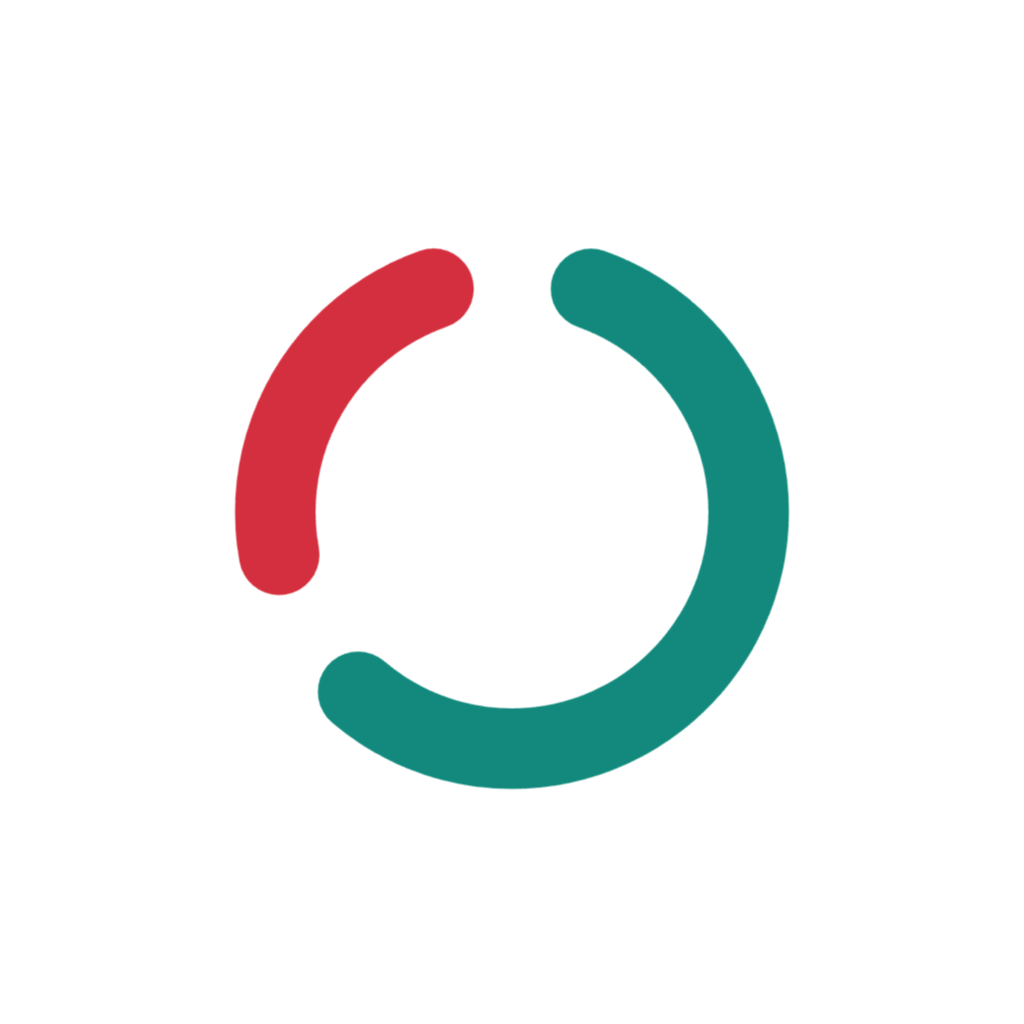
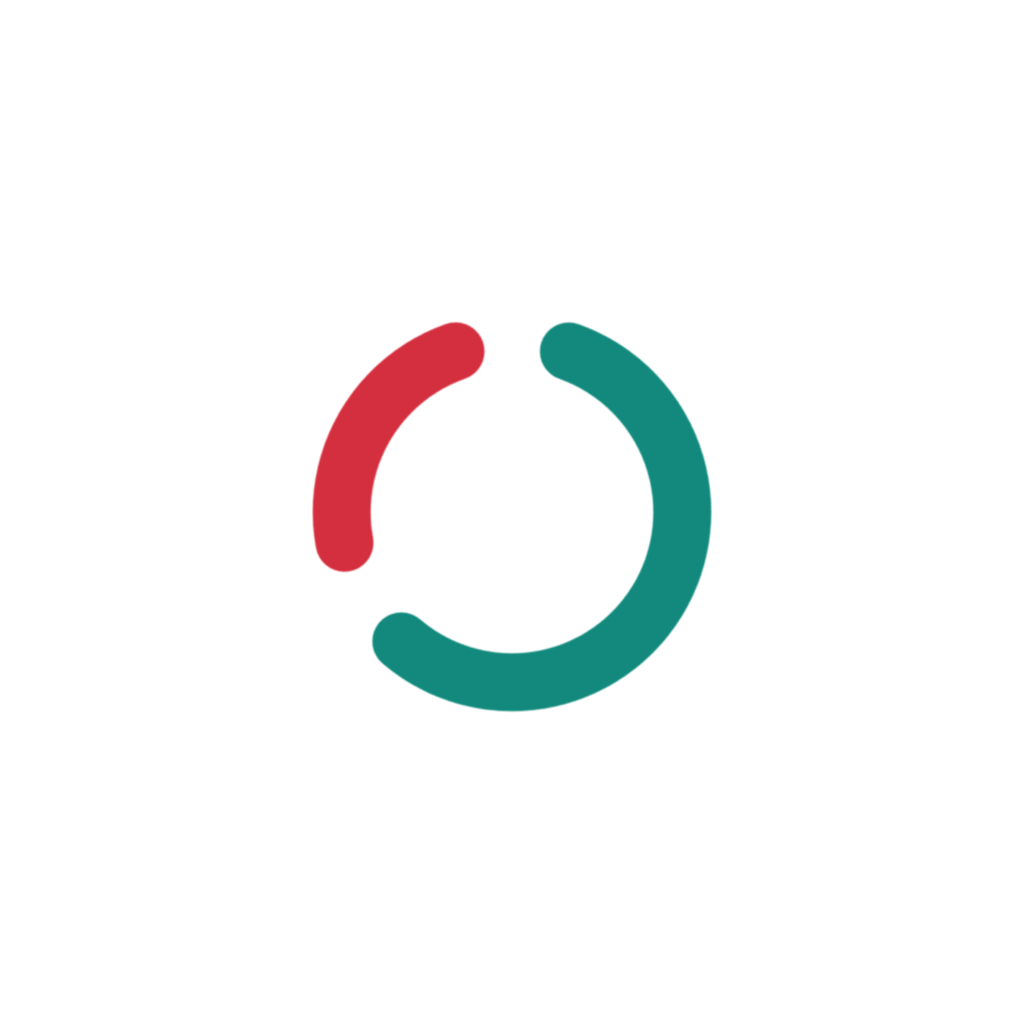
fix(android): 안드로이드에서 시트·팝업·글꼴·아이콘·스플래시가 깨지던 것을 바로잡고 공유 카드에 이전 버튼

Changed region(s): [[0.3125, 0.2188, 0.7812, 0.7812], [0.2188, 0.2188, 0.4688, 0.5938]]

diff --git a/src/components/WorkoutCard.tsx b/src/components/WorkoutCard.tsx
@@ -10,7 +10,7 @@
  * 위 84pt는 인스타 프로필·닫기 버튼, 아래 60pt는 하단 바 자리라 비워 둔다(시안 개정).
  */
 import React from 'react';
-import { StyleSheet, Text, View, type StyleProp, type ViewStyle } from 'react-native';
+import { Platform, StyleSheet, Text, View, type StyleProp, type ViewStyle } from 'react-native';
 import Svg, { Circle, Defs, G, RadialGradient, Rect, Stop } from 'react-native-svg';
 import { clock } from '../engine/labels';
 import { t } from '../i18n';
@@ -30,9 +30,18 @@ export const CARD = {
   panelBorder: 'rgba(255,255,255,0.08)',
 };
 
-/** 숫자 글꼴 — app.json의 expo-font가 묶어 넣는다(iOS는 PostScript 이름으로 찾는다) */
-export const NUM_BOLD = 'LeagueSpartan-Bold';
-export const NUM_SEMI = 'LeagueSpartan-SemiBold';
+/**
+ * 숫자 글꼴 — app.json의 expo-font가 묶어 넣는다. **이름이 플랫폼마다 다르다** — iOS는 PostScript 이름
+ * (LeagueSpartan-Bold)으로, 안드로이드는 파일 이름(LeagueSpartan_700Bold)으로 찾는다. iOS 이름만 쓰자
+ * 안드로이드에서 시스템 글꼴로 그려졌다(갤럭시 실기기, 2026-11-05).
+ *
+ * 이 글꼴을 쓰는 스타일에는 `includeFontPadding: false`를 함께 둔다 — 안드로이드는 글자 위아래에 폰트의
+ * 여백을 더 붙여, 링 가운데에 둔 숫자가 아래로 처졌다(갤럭시 실기기). iOS에는 없는 속성이라 영향이 없다.
+ */
+const spartan = (ios: string, file: string) => (Platform.OS === 'ios' ? ios : file);
+export const NUM_SEMI = spartan('LeagueSpartan-SemiBold', 'LeagueSpartan_600SemiBold');
+export const NUM_BOLD = spartan('LeagueSpartan-Bold', 'LeagueSpartan_700Bold');
+export const NUM_EXTRA = spartan('LeagueSpartan-ExtraBold', 'LeagueSpartan_800ExtraBold');
 
 /** 이미지에 넣는 종목 줄 수 — 넘으면 「외 N개 종목」 */
 export const SHARE_MAX_ROWS = 7;
@@ -346,9 +355,9 @@ export function Legend({ color, label, value, small }: { color: string; label?: 
 
 const styles = StyleSheet.create({
   center: { alignItems: 'center', justifyContent: 'center' },
-  ringLabel: { fontFamily: NUM_BOLD, color: CARD.text, letterSpacing: -1, paddingTop: 3 },
+  ringLabel: { fontFamily: NUM_BOLD, includeFontPadding: false, color: CARD.text, letterSpacing: -1, paddingTop: 3 },
   logo: { flexDirection: 'row', alignItems: 'center', gap: 7 },
-  logoText: { fontFamily: NUM_SEMI, color: CARD.text, letterSpacing: -0.9, paddingTop: 3 },
+  logoText: { fontFamily: NUM_SEMI, includeFontPadding: false, color: CARD.text, letterSpacing: -0.9, paddingTop: 3 },
 
   hero: { flexDirection: 'row', alignItems: 'center' },
   heroText: { flex: 1, minWidth: 0, gap: 8 },
@@ -358,7 +367,7 @@ const styles = StyleSheet.create({
   legendItem: { flexDirection: 'row', alignItems: 'center', gap: 5 },
   dot: { width: 7, height: 7, borderRadius: 3.5 },
   legendLabel: { fontSize: 11.5, color: CARD.legend },
-  legendValue: { fontFamily: NUM_BOLD, fontSize: 15, color: CARD.text, paddingTop: 2 },
+  legendValue: { fontFamily: NUM_BOLD, includeFontPadding: false, fontSize: 15, color: CARD.text, paddingTop: 2 },
 
   panel: {
     borderRadius: 18,
@@ -375,7 +384,7 @@ const styles = StyleSheet.create({
   },
   lineHead: { flexDirection: 'row', alignItems: 'baseline', gap: 10 },
   lineName: { flex: 1, minWidth: 0, fontSize: 14.5, fontWeight: '600', color: CARD.text },
-  lineTime: { fontFamily: NUM_BOLD, fontSize: 16, color: CARD.text },
+  lineTime: { fontFamily: NUM_BOLD, includeFontPadding: false, fontSize: 16, color: CARD.text },
   lineMeta: { fontSize: 11.5, color: CARD.meta },
 
   share: {
@@ -399,7 +408,7 @@ const styles = StyleSheet.create({
   shareMeta: { fontSize: 10, color: CARD.meta },
   shareMore: { flexDirection: 'row', alignItems: 'center', justifyContent: 'space-between', paddingTop: 6, paddingBottom: 7 },
   shareMoreText: { fontSize: 12, color: CARD.sub },
-  shareMoreTime: { fontFamily: NUM_BOLD, fontSize: 13.5, color: CARD.legend },
+  shareMoreTime: { fontFamily: NUM_BOLD, includeFontPadding: false, fontSize: 13.5, color: CARD.legend },
 });
 
 export const cardStyles = styles;

diff --git a/src/components/Overlay.tsx b/src/components/Overlay.tsx
@@ -22,7 +22,7 @@
  * 한 번 더 깐다(시트의 끌어내리기가 gesture-handler다).
  */
 import React, { createContext, useCallback, useContext, useEffect, useMemo, useRef, useState } from 'react';
-import { StyleSheet } from 'react-native';
+import { Platform, StyleSheet, View } from 'react-native';
 import { GestureHandlerRootView } from 'react-native-gesture-handler';
 import { FullWindowOverlay } from 'react-native-screens';
 
@@ -59,16 +59,27 @@ export function OverlayHost() {
   const nodes = useContext(NodesContext);
   // 아무것도 없을 때는 창 위에 뷰를 두지 않는다 — 빈 겹이라도 창 맨 위에 있으면 무엇을 가릴지 모른다
   if (nodes.length === 0) return null;
-  return (
-    <FullWindowOverlay>
-      {/* 빈 자리는 아래로 흘려보낸다 — backdrop이 없는 툴팁은 뒤를 살려 둔다 */}
-      <GestureHandlerRootView style={StyleSheet.absoluteFill} pointerEvents="box-none">
-        {nodes.map((n) => (
-          <React.Fragment key={n.key}>{n.node}</React.Fragment>
-        ))}
-      </GestureHandlerRootView>
-    </FullWindowOverlay>
+  const layer = (
+    // 빈 자리는 아래로 흘려보낸다 — backdrop이 없는 툴팁은 뒤를 살려 둔다
+    <GestureHandlerRootView style={StyleSheet.absoluteFill} pointerEvents="box-none">
+      {nodes.map((n) => (
+        <React.Fragment key={n.key}>{n.node}</React.Fragment>
+      ))}
+    </GestureHandlerRootView>
   );
+  /*
+    FullWindowOverlay는 iOS 전용이다 — 안드로이드에서는 크기 없는 평범한 View가 되어 시트·팝업이
+    그 안에 갇혀 하나도 보이지 않았다(갤럭시 실기기, 2026-11-05). 안드로이드의 스택 화면은 이
+    뿌리 뷰 계층 안에 있으므로, 화면을 덮는 겹을 맨 위(elevation)에 깔면 된다.
+  */
+  if (Platform.OS !== 'ios') {
+    return (
+      <View style={[StyleSheet.absoluteFill, { zIndex: 1000, elevation: 1000 }]} pointerEvents="box-none">
+        {layer}
+      </View>
+    );
+  }
+  return <FullWindowOverlay>{layer}</FullWindowOverlay>;
 }
 
 let seq = 0;

diff --git a/src/components/StoryCards.tsx b/src/components/StoryCards.tsx
@@ -16,10 +16,8 @@ import Svg, { Circle, Defs, G, RadialGradient, Rect, Stop } from 'react-native-s
 import { t } from '../i18n';
 import { TABULAR } from '../theme';
 import type { WorkoutRecord } from '../types';
-import { CARD, NUM_BOLD, SHARE_H, SHARE_W } from './WorkoutCard';
+import { CARD, NUM_BOLD, NUM_EXTRA, NUM_SEMI, SHARE_H, SHARE_W } from './WorkoutCard';
 
-/** 3e의 큰 숫자 — app.json의 expo-font가 묶어 넣는다 */
-const NUM_EXTRA = 'LeagueSpartan-ExtraBold';
 
 /** 사진 위 색 — 어두운 바탕보다 한 단 밝다 */
 const ON_PHOTO = { work: '#E8414F', rest: '#1AA897' };
@@ -468,8 +466,8 @@ const s = StyleSheet.create({
   card: { width: SHARE_W, height: SHARE_H, overflow: 'hidden', backgroundColor: CARD.bg },
   row: { flexDirection: 'row', alignItems: 'center' },
   center: { alignItems: 'center', justifyContent: 'center' },
-  word: { fontFamily: 'LeagueSpartan-SemiBold', color: '#FFFFFF' },
-  num: { fontFamily: NUM_BOLD, color: '#FFFFFF' },
+  word: { fontFamily: NUM_SEMI, includeFontPadding: false, color: '#FFFFFF' },
+  num: { fontFamily: NUM_BOLD, includeFontPadding: false, color: '#FFFFFF' },
   photoSub: { fontSize: 10.5, fontWeight: '600', color: 'rgba(255,255,255,0.82)' },
   photoName: { fontSize: 15, fontWeight: '700', letterSpacing: -0.3, color: '#FFFFFF' },
   stripFoot: {
@@ -496,7 +494,7 @@ const s = StyleSheet.create({
   meta: { fontSize: 12, fontWeight: '600', color: CARD.sub },
   metaDot: { fontSize: 12, fontWeight: '600', color: '#4A4D53' },
   posterName: { fontSize: 14, fontWeight: '700', color: CARD.legend },
-  posterNum: { fontFamily: NUM_EXTRA, color: CARD.text },
+  posterNum: { fontFamily: NUM_EXTRA, includeFontPadding: false, color: CARD.text },
   posterLabel: { marginTop: 2, fontSize: 11, fontWeight: '600', color: CARD.sub },
   posterStats: {
     marginTop: 30,

diff --git a/app/share-card.tsx b/app/share-card.tsx
@@ -28,7 +28,7 @@ import {
 import { useSafeAreaInsets } from 'react-native-safe-area-context';
 import Svg, { Circle, Path, Rect } from 'react-native-svg';
 import { captureRef } from 'react-native-view-shot';
-import { ShareIcon } from '../src/components/Icons';
+import { BackIcon, ShareIcon } from '../src/components/Icons';
 import { PressBox } from '../src/components/PressBox';
 import { needsPhoto, PHOTO_SPOT, StoryCard, type StoryTemplate } from '../src/components/StoryCards';
 import { ToastHost, useToast } from '../src/components/Toast';
@@ -179,6 +179,18 @@ function ShareCard() {
       <View style={[StyleSheet.absoluteFill, { backgroundColor: '#0A0A0D' }]} />
 
       <View style={[styles.header, { marginTop: insets.top }]}>
+        {/* 이전 — 아래 「닫기」와 같은 일. 다른 화면처럼 왼쪽 위에서도 나갈 수 있게(사용자 요청) */}
+        <PressBox
+          onPress={() => router.back()}
+          hitSlop={10}
+          scaleTo={0.9}
+          dim={0}
+          outerStyle={styles.back}
+          style={styles.backBox}
+          accessibilityLabel={t('common.close')}
+        >
+          <BackIcon size={26} color="#B5B8BE" />
+        </PressBox>
         <Text style={styles.title}>{t('shareCard.title')}</Text>
       </View>
 
@@ -347,6 +359,8 @@ const styles = StyleSheet.create({
   root: { flex: 1, backgroundColor: '#0A0A0D' },
   hidden: { position: 'absolute', top: 0, left: 0 },
   header: { height: 44, alignItems: 'center', justifyContent: 'center' },
+  back: { position: 'absolute', left: 12, top: 0, bottom: 0, width: 44 },
+  backBox: { flex: 1, alignItems: 'center', justifyContent: 'center' },
   title: { fontSize: 16, fontWeight: '700', letterSpacing: -0.32, color: '#F7F7F8' },
   card: {
     width: CARD_W,

diff --git a/app/index.tsx b/app/index.tsx
@@ -543,8 +543,14 @@ function AddButton({ kind, primary }: { kind: PresetKind; primary: boolean }) {
    */
   const inner = (color: string, weight: '600' | '700') => (
     <View style={styles.addInner}>
-      {/* 전각 ＋는 em 박스 안에서 작게 그려진다 — 눈에 보이려면 글자보다 훨씬 키워야 한다 */}
-      <Text style={[styles.addPlus, { color }]}>＋</Text>
+      {/*
+        ＋는 글자가 아니라 선 두 개로 그린다 — 전각 ＋ 글자는 폰트마다 세로 자리가 달라
+        iOS에 맞춘 위치가 안드로이드에서는 아래로 처졌다(갤럭시 실기기). 선이면 상자 가운데가 곧 중심이다.
+      */}
+      <View style={styles.addPlus}>
+        <View style={[styles.addPlusBar, { width: 14, height: 1.8, backgroundColor: color }]} />
+        <View style={[styles.addPlusBar, { width: 1.8, height: 14, backgroundColor: color }]} />
+      </View>
       <Text style={{ fontSize: 14, fontWeight: weight, color }}>{label}</Text>
     </View>
   );
@@ -691,7 +697,8 @@ const styles = StyleSheet.create({
     paddingRight: 16,
     gap: 2,
   },
-  /** 전각 ＋는 글리프가 em 박스보다 한참 작다. lineHeight로 세로 중심을 잡는다 */
-  addPlus: { fontSize: 26, fontWeight: '300', lineHeight: 30, marginTop: -1 },
+  /** ＋ — 18 칸 가운데에 가로·세로 선을 겹친다(예전 전각 글자와 같은 크기) */
+  addPlus: { width: 18, height: 18, marginRight: 3, alignItems: 'center', justifyContent: 'center' },
+  addPlusBar: { position: 'absolute', borderRadius: 1 },
   center: { flex: 1, alignItems: 'center', justifyContent: 'center' },
 });

diff --git a/app/_layout.tsx b/app/_layout.tsx
@@ -4,7 +4,7 @@ import * as SplashScreen from 'expo-splash-screen';
 import { markSplashGone } from '../src/splash';
 import { StatusBar } from 'expo-status-bar';
 import React, { useCallback, useEffect, useRef, useState } from 'react';
-import { Animated, StyleSheet, View } from 'react-native';
+import { Animated, Platform, StyleSheet, View } from 'react-native';
 import { GestureHandlerRootView } from 'react-native-gesture-handler';
 import { SafeAreaProvider } from 'react-native-safe-area-context';
 import { Wordmark } from '../src/components/Wordmark';
@@ -38,8 +38,12 @@ const NAV_THEME = {
   },
 };
 
-/** 네이티브 스플래시의 로고 크기와 같아야 이어붙는 순간이 보이지 않는다 */
-const SPLASH_LOGO_WIDTH = 200;
+/**
+ * 네이티브 스플래시의 로고 크기와 같아야 이어붙는 순간이 보이지 않는다(app.json expo-splash-screen).
+ * 안드로이드 12+는 스플래시 아이콘을 지름 약 192dp 원 안에만 보여서, 200이면 옆으로 긴 로고의 양 끝(왼쪽 링)이
+ * 잘렸다(갤럭시 실기기, 2026-11-05) — 안드로이드는 170.
+ */
+const SPLASH_LOGO_WIDTH = Platform.OS === 'ios' ? 200 : 170;
 
 export default function RootLayout() {
   const [splashGone, setSplashGone] = useState(false);

diff --git a/src/components/Onboarding.tsx b/src/components/Onboarding.tsx
@@ -372,7 +372,7 @@ function LockClock() {
           w: t('records.weekdays').split(' ')[now.getDay()],
         })}
       </Text>
-      <Text style={[{ fontFamily: NUM_BOLD, fontSize: 50, color: '#F7F7F8', lineHeight: 52 }, TABULAR]}>{time}</Text>
+      <Text style={[{ fontFamily: NUM_BOLD, includeFontPadding: false, fontSize: 50, color: '#F7F7F8', lineHeight: 52 }, TABULAR]}>{time}</Text>
     </View>
   );
 }
@@ -568,7 +568,7 @@ const styles = StyleSheet.create({
   workoutIcon: { width: 34, height: 34, borderRadius: 10 },
   workoutName: { fontSize: 14.5, fontWeight: '600', color: '#F7F7F8' },
   workoutMeta: { fontSize: 12.5, color: SUB },
-  workoutTime: { fontFamily: NUM_BOLD, fontSize: 20, color: '#F7F7F8', paddingTop: 2 },
+  workoutTime: { fontFamily: NUM_BOLD, includeFontPadding: false, fontSize: 20, color: '#F7F7F8', paddingTop: 2 },
   deniedRow: { flexDirection: 'row', gap: 9, alignItems: 'flex-start', paddingTop: 13, paddingBottom: 15, paddingHorizontal: 18 },
   footer: { paddingTop: 16, paddingHorizontal: 24, alignItems: 'center', gap: 20 },
   dots: { flexDirection: 'row', gap: 6 },

diff --git a/src/components/Ring.tsx b/src/components/Ring.tsx
@@ -16,6 +16,7 @@ import {
   AppState,
   Easing,
   PanResponder,
+  Platform,
   StyleSheet,
   Text,
   View,
@@ -329,7 +330,11 @@ export function Ring({
     <View style={{ width: RING_SIZE, height: RING_SIZE }}>
       {/* 내부 유리 원판 */}
       <View style={styles.disc}>
-        <BlurView intensity={16} tint="light" style={StyleSheet.absoluteFill} />
+        {/*
+          안드로이드의 expo-blur는 흐림 없이 반투명 흰 막만 깔아 원판이 바깥보다 훨씬 밝았다(갤럭시 실기기).
+          뒤가 단색 그라데이션이라 iOS에서도 흐림 자체는 거의 안 보인다 — 안드로이드에서는 뺀다.
+        */}
+        {Platform.OS === 'ios' && <BlurView intensity={16} tint="light" style={StyleSheet.absoluteFill} />}
         <LinearGradient
           colors={['rgba(255,255,255,0.16)', 'rgba(255,255,255,0.04)']}
           start={{ x: 0.15, y: 0 }}
